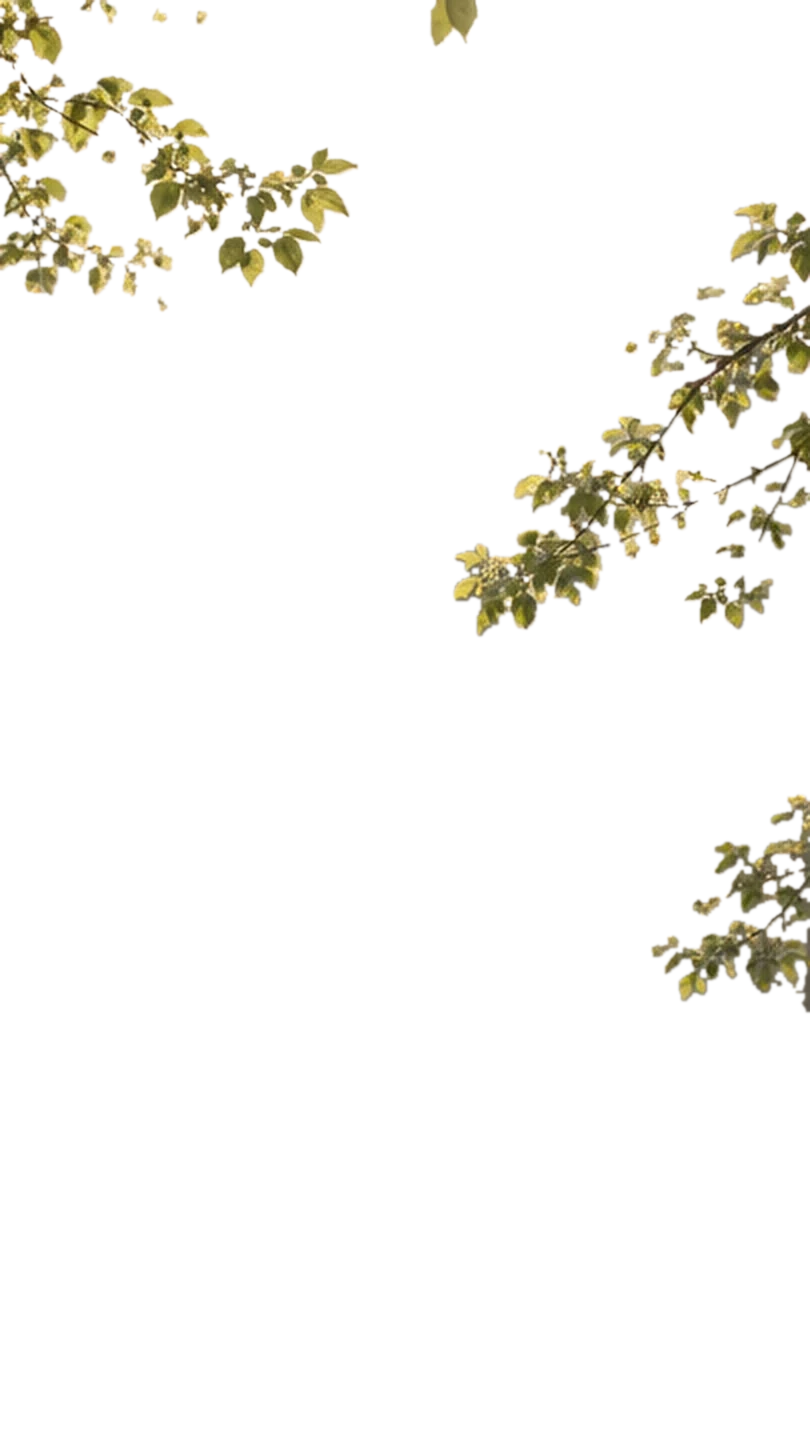
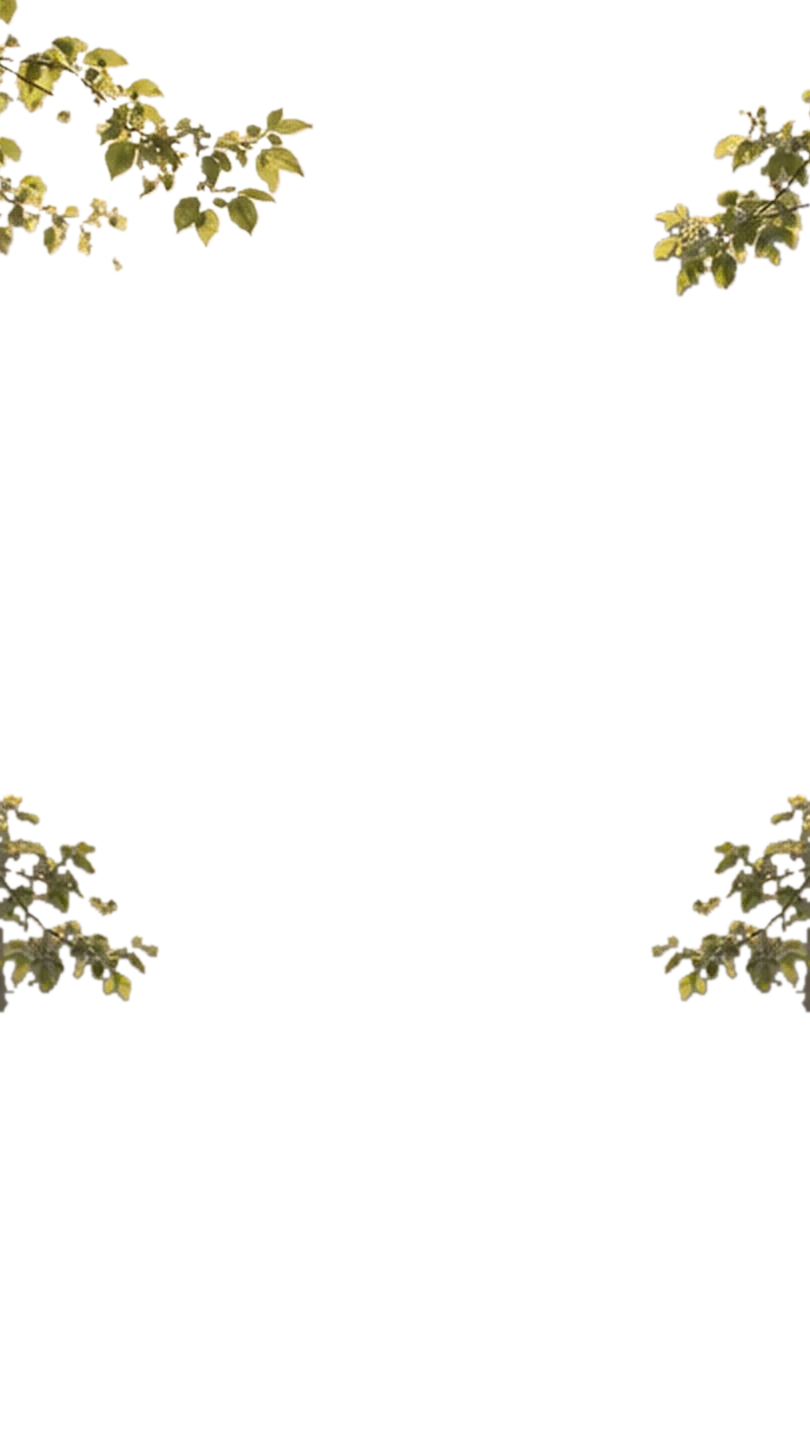
Welcome screen leaves rearranged as a soft frame around her: a branch in each top corner and a small sprig on each side lower down, mirrored, so nothing crosses her body anymore. The scene behind her now uses a copy of the forest photo with those branches removed and filled with soft mist, so no lea

diff --git a/sw.js b/sw.js
@@ -1,7 +1,7 @@
 // Offline cache for the app shell. Bump VERSION when shipping changes.
-const VERSION = 'uts-v1311';
+const VERSION = 'uts-v1312';
 const SHELL = ['./', './index.html', './js/lotus.js', './styles.css', './manifest.json', './icons/icon-192.png', './icons/icon-512.png', './icons/apple-touch-icon.png', './icons/icon-64.png', './icons/icon-32.png', './icons/icon-maskable-512.png', './fonts/ballet-latin.woff2', './fonts/ballet-latin-ext.woff2',
-  './js/app.js', './js/data.js', './js/cycle.js', './js/icons.js', './js/cosmic.js', './js/astro.js', './js/moonguide.js', './js/moon3d.js', './js/figure.js', './js/figure3d.js', './js/torso.js', './js/torso3d.js', './js/photos.js', './js/seasonal.js', './js/world.js', './js/ground.js', './js/athlete.js', './js/bodymap.js', './js/molecules.js', './js/welcome3d.js', './js/teacup3d.js', './js/sfx.js', './js/ticketmotion.js', './js/sun.js', './js/account.js', './js/config.js', './images/planet.jpg', './images/gate-rose.webp', './images/lotus-menstrual.webp', './images/lotus-follicular.webp', './images/lotus-ovulatory.webp', './images/lotus-luteal.webp', './images/breath-bud.webp', './images/breath-bloom.webp', './images/period.png', './images/partner-cinema.webp', './images/partner-hands.jpg', './images/ground-roots.jpg', './images/ground/golden-roots.webp', './images/pixel-aura-0.png', './images/pixel-aura-1.png', './images/pixel-aura-2.png', './images/pixel-aura-3.png', './images/sun-moon.webp', './images/sun-moon.mp4', './images/tea-ginger.webp', './images/sun-moon-poster.webp', './images/rhythm-sun.webp', './images/move-stardust.mp4', './images/move-stardust.webp', './images/move-meditate.webp', './images/move-walk.webp', './images/move-yoga.webp', './images/move-sport.webp', './images/move-pilates.webp', './images/move-hiit.webp', './images/move-lift.webp', './images/season-veg.webp', './images/season-fruit.webp', './images/stress-meditate.mp4', './images/stress-meditate.webp', './images/stress-breathe.mp4', './images/stress-breathe.webp', './images/forest-path.jpg', './images/welcome-forest.jpg', './images/welcome-leaves.webp', './images/intro-forest.jpg', './images/forest-calm.jpg', './images/tile-meditate.webp', './images/tile-ground.webp', './images/tile-walk.webp', './images/tile-yoga.webp', './images/tile-sport.webp', './images/tile-pilates.webp', './images/tile-hiit.webp', './images/tile-lift.webp', './images/purpose-body.jpg', './images/purpose-conceive.jpg', './images/purpose-after.jpg', './images/purpose-after-feet.jpg', './images/period-food.webp', './images/plate.webp', './images/read-lilies.webp', './images/read-seasons.webp', './models/body2.glb', './models/teacup.glb', './models/matcha.glb', './models/greentea.glb', './images/cup-matcha.webp', './models/soup.glb', './images/dish-soup.webp', './models/pho.glb', './images/dish-pho.webp', './models/miso.glb', './images/dish-miso.webp', './models/stew.glb', './images/dish-stew.webp', './models/veg-plate.glb', './models/salad-a.glb', './images/dish-salad-a.webp', './models/salad-b.glb', './images/dish-salad-b.webp', './images/dish-veg.webp', './models/taco.glb', './images/dish-taco.webp', './models/gyro.glb', './images/dish-gyro.webp', './models/marrow.glb', './images/dish-marrow.webp', './models/curry.glb', './images/dish-curry.webp', './models/steak.glb', './images/dish-steak.webp', './models/sweet-potato.glb', './images/dish-sweet-potato.webp', './models/mint-tea.glb', './images/cup-mint.webp', './models/chamomile.glb', './images/cup-chamomile.webp', './models/hibiscus.glb', './models/latte.glb', './models/coffee.glb', './models/broth.glb', './models/cortisol.glb', './images/cortisol-mol.webp', './models/moon.glb', './images/cup-chai.webp', './images/cup-hibiscus.webp', './images/cup-glass.webp', './sounds/forest-stream.m4a', './images/herbs/astragalus.svg', './images/herbs/red-dates.svg', './images/herbs/ginger.svg', './images/herbs/clove.svg', './images/herbs/cinnamon.svg', './images/herbs/goji.svg', './images/herbs/reishi.svg', './images/herbs/chaga.svg', './images/herbs/he-shou-wu.svg', './images/drinks/broth.svg', './images/drinks/cacao.svg', './images/drinks/chamomile-tea.svg', './images/drinks/coconut-water.svg', './images/drinks/coffee.svg', './images/drinks/ginger-tea.svg', './images/drinks/green-juice.svg', './images/drinks/hibiscus-tea.svg', './images/drinks/iced-matcha.svg', './images/drinks/lemon-water.svg', './images/drinks/matcha-latte.svg', './images/drinks/matcha.svg', './images/drinks/mineral-water.svg', './images/drinks/nettle-tea.svg', './images/drinks/raspberry-leaf-tea.svg', './images/drinks/red-date-tea.svg', './images/emoji/iron-ore.svg', './images/emoji/log-cramps.svg', './images/emoji/log-pelvic-pain.svg', './images/emoji/log-joint-pain.svg', './images/emoji/log-constipation.svg', './images/emoji/log-acne.svg', './images/emoji/log-brain-fog.svg', './images/emoji/log-unusual-colour.svg', './images/emoji/amla.svg', './images/emoji/apricot.svg', './images/emoji/artichoke.svg', './images/emoji/asian-pear.svg', './images/emoji/bamboo-shoot.svg', './images/emoji/bean-sprouts.svg', './images/emoji/bitter-gourd.svg', './images/emoji/black-trumpet.svg', './images/emoji/blackberry.svg', './images/emoji/bottle-gourd.svg', './images/emoji/brussels-sprouts.svg', './images/emoji/burdock.svg', './images/emoji/button-mushroom.svg', './images/emoji/cardoon.svg', './images/emoji/cassava.svg', './images/emoji/cauliflower.svg', './images/emoji/celeriac.svg', './images/emoji/chanterelle.svg', './images/emoji/chard.svg', './images/emoji/chayote.svg', './images/emoji/cloudberry.svg', './images/emoji/cranberry.svg', './images/emoji/currants.svg', './images/emoji/custard-apple.svg', './images/emoji/daikon.svg', './images/emoji/dandelion.svg', './images/emoji/dragon-fruit.svg', './images/emoji/drumsticks.svg', './images/emoji/elderberry.svg', './images/emoji/enoki.svg', './images/emoji/feijoa.svg', './images/emoji/fiddlehead.svg', './images/emoji/green-plum.svg', './images/emoji/guava.svg', './images/emoji/horseradish.svg', './images/emoji/jackfruit.svg', './images/emoji/jamun.svg', './images/emoji/jerusalem-artichoke.svg', './images/emoji/kale.svg', './images/emoji/king-oyster.svg', './images/emoji/kohlrabi.svg', './images/emoji/korean-melon.svg', './images/emoji/leek.svg', './images/emoji/lingonberry.svg', './images/emoji/lions-mane.svg', './images/emoji/long-beans.svg', './images/emoji/loquat.svg', './images/emoji/lotus-root.svg', './images/emoji/lychee.svg', './images/emoji/mangosteen.svg', './images/emoji/morel.svg', './images/emoji/okra.svg', './images/emoji/oyster-mushroom.svg', './images/emoji/papaya.svg', './images/emoji/parsnip.svg', './images/emoji/passion-fruit.svg', './images/emoji/persimmon.svg', './images/emoji/plum.svg', './images/emoji/porcini.svg', './images/emoji/prickly-pear.svg', './images/emoji/rambutan.svg', './images/emoji/raspberry.svg', './images/emoji/ridge-gourd.svg', './images/emoji/rosehip.svg', './images/emoji/salsify.svg', './images/emoji/samphire.svg', './images/emoji/sea-buckthorn.svg', './images/emoji/shiitake.svg', './images/emoji/spring-onion.svg', './images/emoji/starfruit.svg', './images/emoji/tamarind.svg', './images/emoji/taro.svg', './images/emoji/turnip.svg', './images/emoji/watercress.svg', './images/emoji/yuzu.svg', './images/emoji/almonds.webp', './images/emoji/asparagus.webp', './images/emoji/beetroot.webp', './images/emoji/black-sesame.webp', './images/emoji/cardamom.webp', './images/emoji/chia.webp', './images/emoji/cinnamon.webp', './images/emoji/fennel-seeds.webp', './images/emoji/fennel.webp', './images/emoji/fig.webp', './images/emoji/flaxseed.webp', './images/emoji/goji.webp', './images/emoji/hemp.webp', './images/emoji/liver.webp', './images/emoji/pomegranate.webp', './images/emoji/pumpkin-seeds.webp', './images/emoji/quince.webp', './images/emoji/radish.webp', './images/emoji/red-dates.webp', './images/emoji/rhubarb.webp', './images/emoji/sesame.webp', './images/emoji/sunflower-seeds.webp', './images/emoji/tahini.webp', './images/emoji/turmeric.webp', './images/emoji/walnuts.webp', './images/emoji/black-seed-oil.svg', './images/emoji/cacao.svg', './images/emoji/water.svg', './images/emoji/black-pepper.svg', './images/emoji/cumin.svg', './images/emoji/curry.svg', './images/emoji/dates.svg', './images/emoji/maple-syrup.svg', './images/emoji/mayonnaise.svg', './images/emoji/mustard.svg', './images/emoji/nutmeg.svg', './images/emoji/nutritional-yeast.svg', './images/emoji/paprika.svg', './images/emoji/tamari.svg', './images/emoji/toothpick.svg', './images/emoji/vanilla.svg', './images/bg/mist.webp', './images/bg/arch.webp', './images/bg/arch-band.webp', './images/bg/frame-band.webp', './images/bg/frame-top.webp', './images/bg/frame-bottom.webp', './images/bg/frame-side.webp', './images/bg/leaves.webp', './images/bg/lotus.webp', './images/bg/lotus-petals.webp', './images/bg/lotus-lines.webp', './images/bg/swirls.webp', './images/tea-glow-bg.webp', './images/herbs/astragalus-real.webp', './images/herbs/clove-real.webp', './images/herbs/chaga-real.webp', './images/herbs/reishi-real.webp', './images/herbs/he-shou-wu-photo.webp', './images/sf/astragalus.webp', './images/sf/elderberries.webp', './images/sf/walnuts.webp', './images/sf/iron.webp', './images/drinks/cup-covered.svg'];
+  './js/app.js', './js/data.js', './js/cycle.js', './js/icons.js', './js/cosmic.js', './js/astro.js', './js/moonguide.js', './js/moon3d.js', './js/figure.js', './js/figure3d.js', './js/torso.js', './js/torso3d.js', './js/photos.js', './js/seasonal.js', './js/world.js', './js/ground.js', './js/athlete.js', './js/bodymap.js', './js/molecules.js', './js/welcome3d.js', './js/teacup3d.js', './js/sfx.js', './js/ticketmotion.js', './js/sun.js', './js/account.js', './js/config.js', './images/planet.jpg', './images/gate-rose.webp', './images/lotus-menstrual.webp', './images/lotus-follicular.webp', './images/lotus-ovulatory.webp', './images/lotus-luteal.webp', './images/breath-bud.webp', './images/breath-bloom.webp', './images/period.png', './images/partner-cinema.webp', './images/partner-hands.jpg', './images/ground-roots.jpg', './images/ground/golden-roots.webp', './images/pixel-aura-0.png', './images/pixel-aura-1.png', './images/pixel-aura-2.png', './images/pixel-aura-3.png', './images/sun-moon.webp', './images/sun-moon.mp4', './images/tea-ginger.webp', './images/sun-moon-poster.webp', './images/rhythm-sun.webp', './images/move-stardust.mp4', './images/move-stardust.webp', './images/move-meditate.webp', './images/move-walk.webp', './images/move-yoga.webp', './images/move-sport.webp', './images/move-pilates.webp', './images/move-hiit.webp', './images/move-lift.webp', './images/season-veg.webp', './images/season-fruit.webp', './images/stress-meditate.mp4', './images/stress-meditate.webp', './images/stress-breathe.mp4', './images/stress-breathe.webp', './images/forest-path.jpg', './images/welcome-forest.jpg', './images/welcome-leaves.webp', './images/welcome-forest-bare.jpg', './images/intro-forest.jpg', './images/forest-calm.jpg', './images/tile-meditate.webp', './images/tile-ground.webp', './images/tile-walk.webp', './images/tile-yoga.webp', './images/tile-sport.webp', './images/tile-pilates.webp', './images/tile-hiit.webp', './images/tile-lift.webp', './images/purpose-body.jpg', './images/purpose-conceive.jpg', './images/purpose-after.jpg', './images/purpose-after-feet.jpg', './images/period-food.webp', './images/plate.webp', './images/read-lilies.webp', './images/read-seasons.webp', './models/body2.glb', './models/teacup.glb', './models/matcha.glb', './models/greentea.glb', './images/cup-matcha.webp', './models/soup.glb', './images/dish-soup.webp', './models/pho.glb', './images/dish-pho.webp', './models/miso.glb', './images/dish-miso.webp', './models/stew.glb', './images/dish-stew.webp', './models/veg-plate.glb', './models/salad-a.glb', './images/dish-salad-a.webp', './models/salad-b.glb', './images/dish-salad-b.webp', './images/dish-veg.webp', './models/taco.glb', './images/dish-taco.webp', './models/gyro.glb', './images/dish-gyro.webp', './models/marrow.glb', './images/dish-marrow.webp', './models/curry.glb', './images/dish-curry.webp', './models/steak.glb', './images/dish-steak.webp', './models/sweet-potato.glb', './images/dish-sweet-potato.webp', './models/mint-tea.glb', './images/cup-mint.webp', './models/chamomile.glb', './images/cup-chamomile.webp', './models/hibiscus.glb', './models/latte.glb', './models/coffee.glb', './models/broth.glb', './models/cortisol.glb', './images/cortisol-mol.webp', './models/moon.glb', './images/cup-chai.webp', './images/cup-hibiscus.webp', './images/cup-glass.webp', './sounds/forest-stream.m4a', './images/herbs/astragalus.svg', './images/herbs/red-dates.svg', './images/herbs/ginger.svg', './images/herbs/clove.svg', './images/herbs/cinnamon.svg', './images/herbs/goji.svg', './images/herbs/reishi.svg', './images/herbs/chaga.svg', './images/herbs/he-shou-wu.svg', './images/drinks/broth.svg', './images/drinks/cacao.svg', './images/drinks/chamomile-tea.svg', './images/drinks/coconut-water.svg', './images/drinks/coffee.svg', './images/drinks/ginger-tea.svg', './images/drinks/green-juice.svg', './images/drinks/hibiscus-tea.svg', './images/drinks/iced-matcha.svg', './images/drinks/lemon-water.svg', './images/drinks/matcha-latte.svg', './images/drinks/matcha.svg', './images/drinks/mineral-water.svg', './images/drinks/nettle-tea.svg', './images/drinks/raspberry-leaf-tea.svg', './images/drinks/red-date-tea.svg', './images/emoji/iron-ore.svg', './images/emoji/log-cramps.svg', './images/emoji/log-pelvic-pain.svg', './images/emoji/log-joint-pain.svg', './images/emoji/log-constipation.svg', './images/emoji/log-acne.svg', './images/emoji/log-brain-fog.svg', './images/emoji/log-unusual-colour.svg', './images/emoji/amla.svg', './images/emoji/apricot.svg', './images/emoji/artichoke.svg', './images/emoji/asian-pear.svg', './images/emoji/bamboo-shoot.svg', './images/emoji/bean-sprouts.svg', './images/emoji/bitter-gourd.svg', './images/emoji/black-trumpet.svg', './images/emoji/blackberry.svg', './images/emoji/bottle-gourd.svg', './images/emoji/brussels-sprouts.svg', './images/emoji/burdock.svg', './images/emoji/button-mushroom.svg', './images/emoji/cardoon.svg', './images/emoji/cassava.svg', './images/emoji/cauliflower.svg', './images/emoji/celeriac.svg', './images/emoji/chanterelle.svg', './images/emoji/chard.svg', './images/emoji/chayote.svg', './images/emoji/cloudberry.svg', './images/emoji/cranberry.svg', './images/emoji/currants.svg', './images/emoji/custard-apple.svg', './images/emoji/daikon.svg', './images/emoji/dandelion.svg', './images/emoji/dragon-fruit.svg', './images/emoji/drumsticks.svg', './images/emoji/elderberry.svg', './images/emoji/enoki.svg', './images/emoji/feijoa.svg', './images/emoji/fiddlehead.svg', './images/emoji/green-plum.svg', './images/emoji/guava.svg', './images/emoji/horseradish.svg', './images/emoji/jackfruit.svg', './images/emoji/jamun.svg', './images/emoji/jerusalem-artichoke.svg', './images/emoji/kale.svg', './images/emoji/king-oyster.svg', './images/emoji/kohlrabi.svg', './images/emoji/korean-melon.svg', './images/emoji/leek.svg', './images/emoji/lingonberry.svg', './images/emoji/lions-mane.svg', './images/emoji/long-beans.svg', './images/emoji/loquat.svg', './images/emoji/lotus-root.svg', './images/emoji/lychee.svg', './images/emoji/mangosteen.svg', './images/emoji/morel.svg', './images/emoji/okra.svg', './images/emoji/oyster-mushroom.svg', './images/emoji/papaya.svg', './images/emoji/parsnip.svg', './images/emoji/passion-fruit.svg', './images/emoji/persimmon.svg', './images/emoji/plum.svg', './images/emoji/porcini.svg', './images/emoji/prickly-pear.svg', './images/emoji/rambutan.svg', './images/emoji/raspberry.svg', './images/emoji/ridge-gourd.svg', './images/emoji/rosehip.svg', './images/emoji/salsify.svg', './images/emoji/samphire.svg', './images/emoji/sea-buckthorn.svg', './images/emoji/shiitake.svg', './images/emoji/spring-onion.svg', './images/emoji/starfruit.svg', './images/emoji/tamarind.svg', './images/emoji/taro.svg', './images/emoji/turnip.svg', './images/emoji/watercress.svg', './images/emoji/yuzu.svg', './images/emoji/almonds.webp', './images/emoji/asparagus.webp', './images/emoji/beetroot.webp', './images/emoji/black-sesame.webp', './images/emoji/cardamom.webp', './images/emoji/chia.webp', './images/emoji/cinnamon.webp', './images/emoji/fennel-seeds.webp', './images/emoji/fennel.webp', './images/emoji/fig.webp', './images/emoji/flaxseed.webp', './images/emoji/goji.webp', './images/emoji/hemp.webp', './images/emoji/liver.webp', './images/emoji/pomegranate.webp', './images/emoji/pumpkin-seeds.webp', './images/emoji/quince.webp', './images/emoji/radish.webp', './images/emoji/red-dates.webp', './images/emoji/rhubarb.webp', './images/emoji/sesame.webp', './images/emoji/sunflower-seeds.webp', './images/emoji/tahini.webp', './images/emoji/turmeric.webp', './images/emoji/walnuts.webp', './images/emoji/black-seed-oil.svg', './images/emoji/cacao.svg', './images/emoji/water.svg', './images/emoji/black-pepper.svg', './images/emoji/cumin.svg', './images/emoji/curry.svg', './images/emoji/dates.svg', './images/emoji/maple-syrup.svg', './images/emoji/mayonnaise.svg', './images/emoji/mustard.svg', './images/emoji/nutmeg.svg', './images/emoji/nutritional-yeast.svg', './images/emoji/paprika.svg', './images/emoji/tamari.svg', './images/emoji/toothpick.svg', './images/emoji/vanilla.svg', './images/bg/mist.webp', './images/bg/arch.webp', './images/bg/arch-band.webp', './images/bg/frame-band.webp', './images/bg/frame-top.webp', './images/bg/frame-bottom.webp', './images/bg/frame-side.webp', './images/bg/leaves.webp', './images/bg/lotus.webp', './images/bg/lotus-petals.webp', './images/bg/lotus-lines.webp', './images/bg/swirls.webp', './images/tea-glow-bg.webp', './images/herbs/astragalus-real.webp', './images/herbs/clove-real.webp', './images/herbs/chaga-real.webp', './images/herbs/reishi-real.webp', './images/herbs/he-shou-wu-photo.webp', './images/sf/astragalus.webp', './images/sf/elderberries.webp', './images/sf/walnuts.webp', './images/sf/iron.webp', './images/drinks/cup-covered.svg'];
 
 self.addEventListener('install', e => {
   e.waitUntil(caches.open(VERSION).then(c => c.addAll(SHELL.map(u => new Request(u, { cache: 'reload' })))).then(() => self.skipWaiting()));

diff --git a/js/app.js b/js/app.js
@@ -11999,7 +11999,7 @@ function mountFigures() {
   document.querySelectorAll('svg.dot-word').forEach(dotWord);
   document.querySelectorAll('canvas.welcome3d').forEach(c => {
     const wrap = c.closest('.onb-welcome');
-    const fail = () => { if (!c.isConnected) return; const f = document.createElement('img'); f.className = 'welcome-still'; f.src = 'images/welcome-forest.jpg'; f.alt = ''; c.replaceWith(f); wrap?.classList.add('arrived', 'no3d'); }; // no WebGL: the misty forest still, never a dark screen
+    const fail = () => { if (!c.isConnected) return; const f = document.createElement('img'); f.className = 'welcome-still'; f.src = 'images/welcome-forest-bare.jpg'; f.alt = ''; c.replaceWith(f); wrap?.classList.add('arrived', 'no3d'); }; // no WebGL: the misty forest still, never a dark screen
     c.addEventListener('welcome-fail', fail);
     import('./welcome3d.js').then(m => {
       if (!c.isConnected) return; if (!m.webglOK()) throw new Error('no webgl');

diff --git a/js/welcome3d.js b/js/welcome3d.js
@@ -30,7 +30,7 @@ export function mountWelcome3D(canvas, { onReady } = {}) {
   const scene = new THREE.Scene();
   scene.fog = new THREE.FogExp2(0xf1ece6, 0.035);
   // misty forest with pink silk behind her, cover-fitted to the screen in resize()
-  const bg = new THREE.TextureLoader().load('images/welcome-forest.jpg', () => resize());
+  const bg = new THREE.TextureLoader().load('images/welcome-forest-bare.jpg', () => resize());
   bg.colorSpace = THREE.SRGBColorSpace; scene.background = bg;
   const pmrem = new THREE.PMREMGenerator(renderer);
   scene.environment = pmrem.fromScene(new RoomEnvironment(), 0.04).texture;
